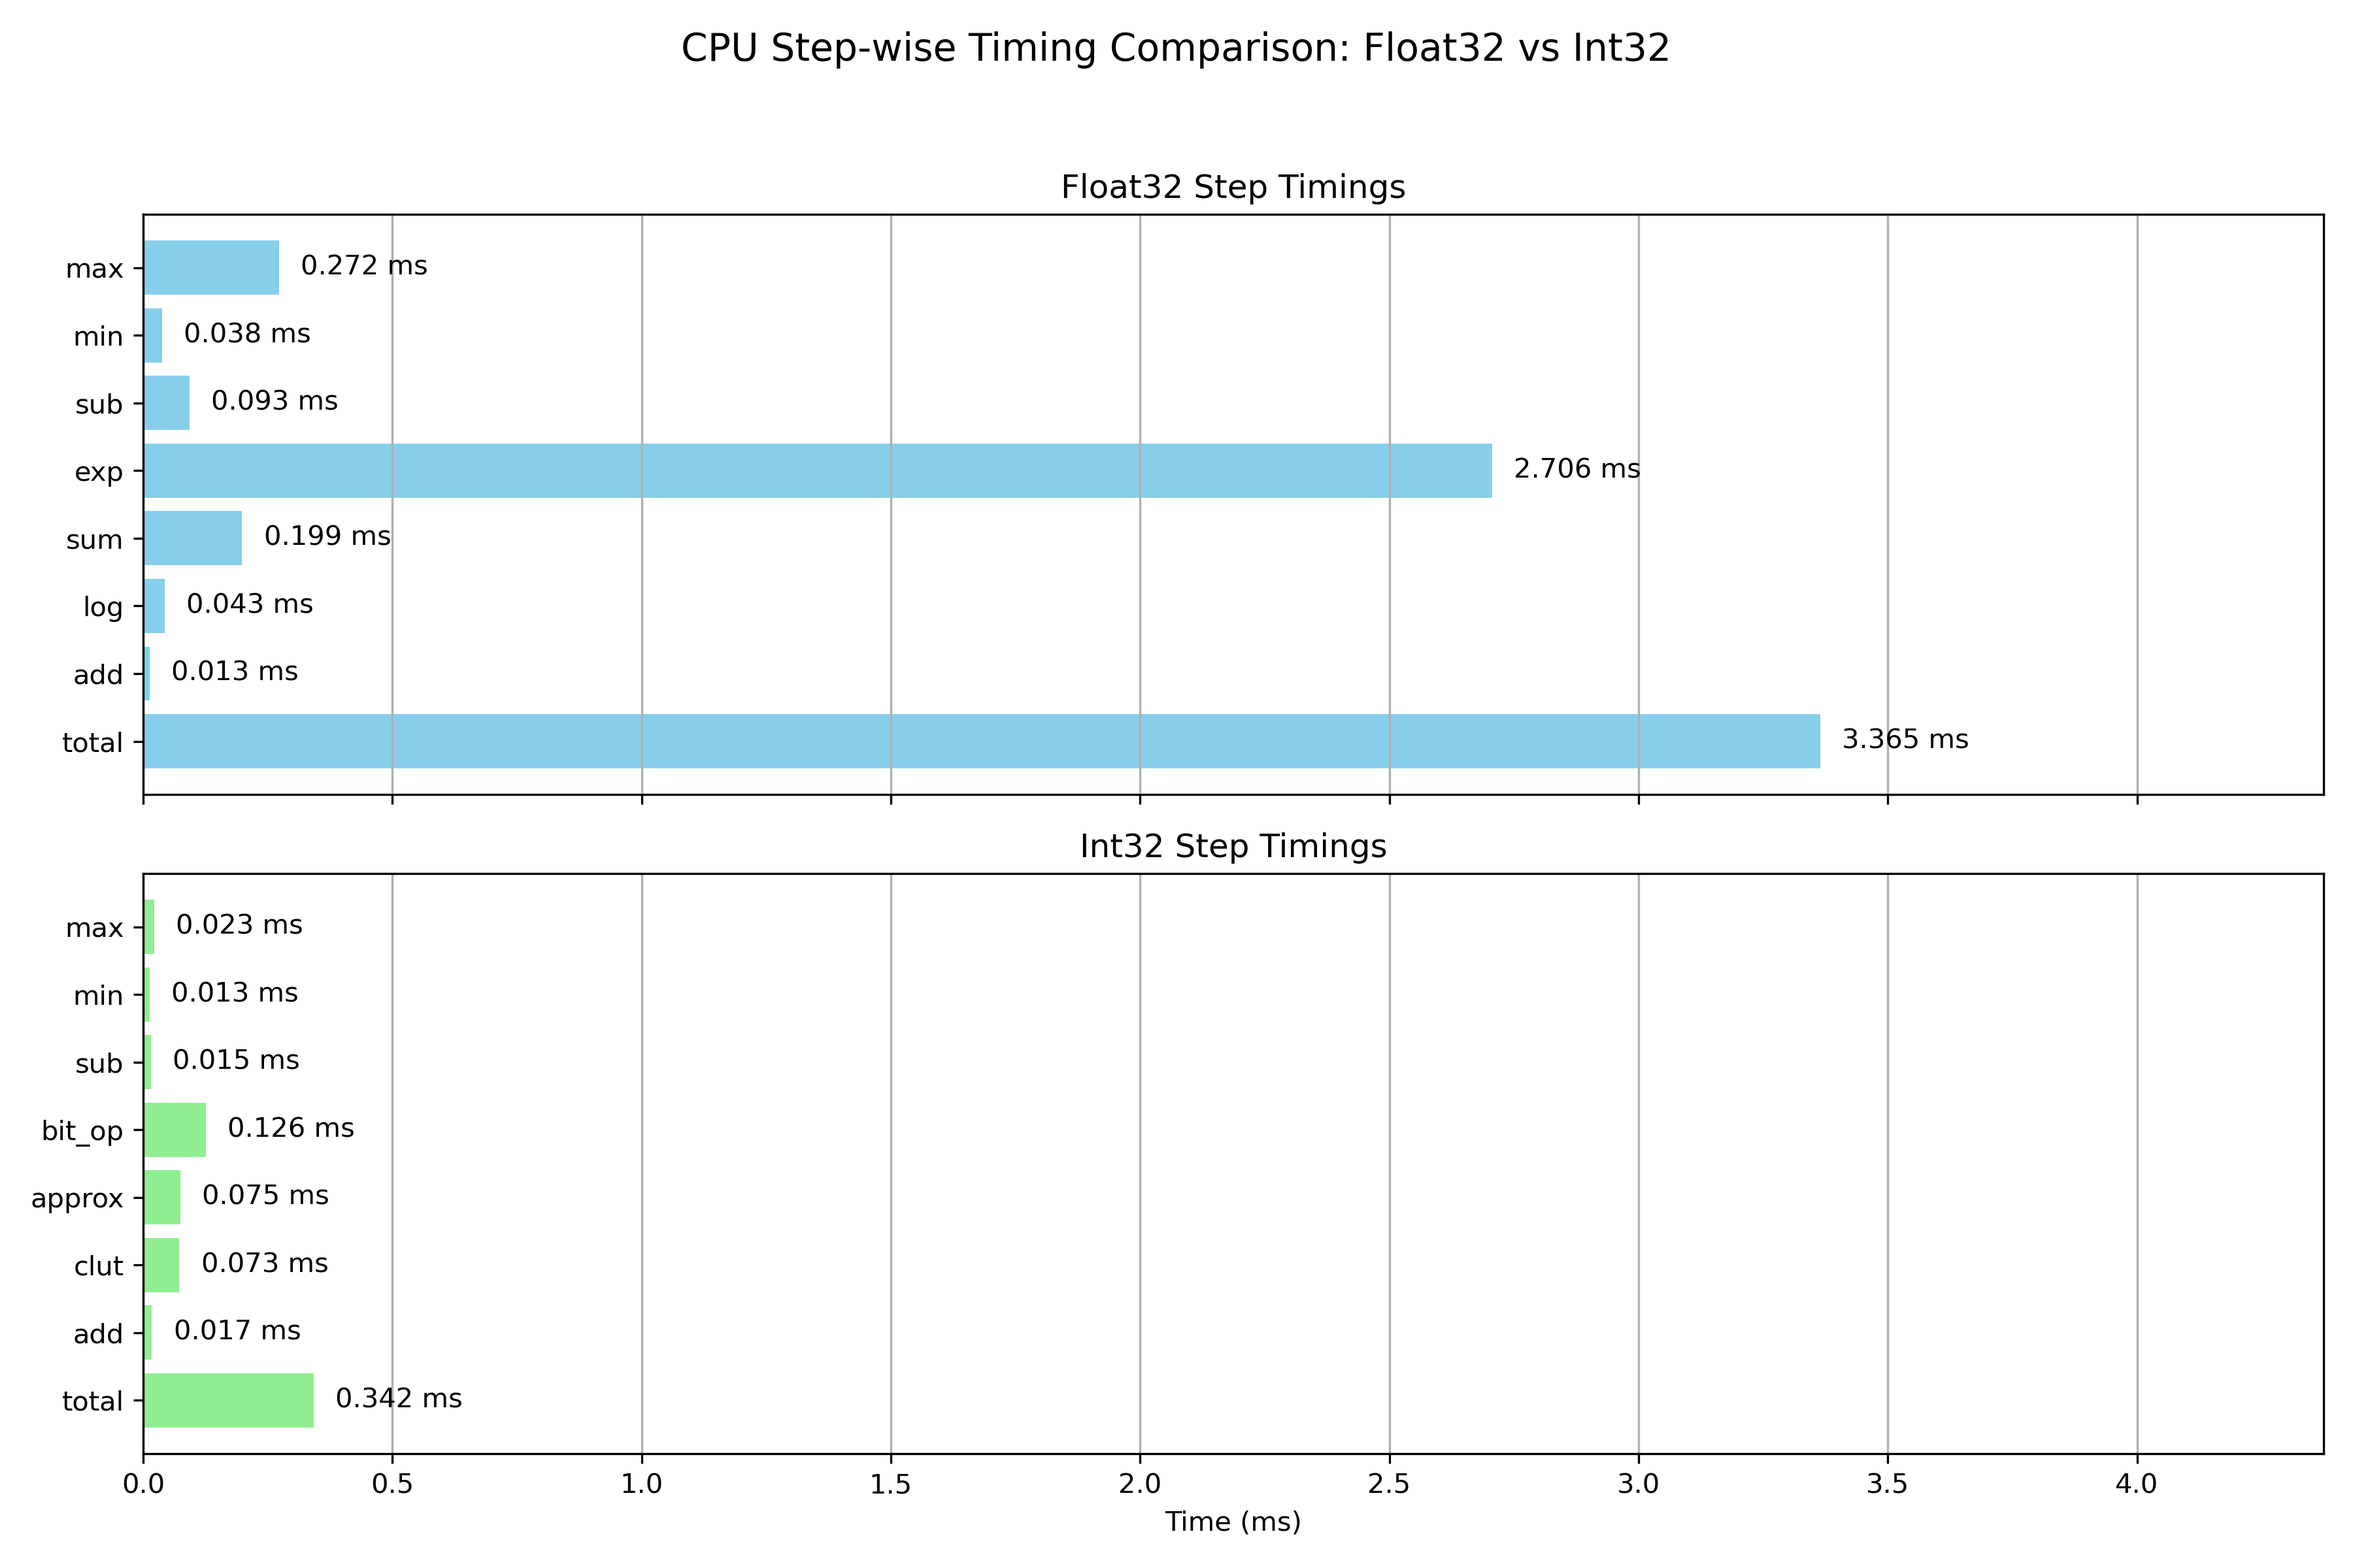
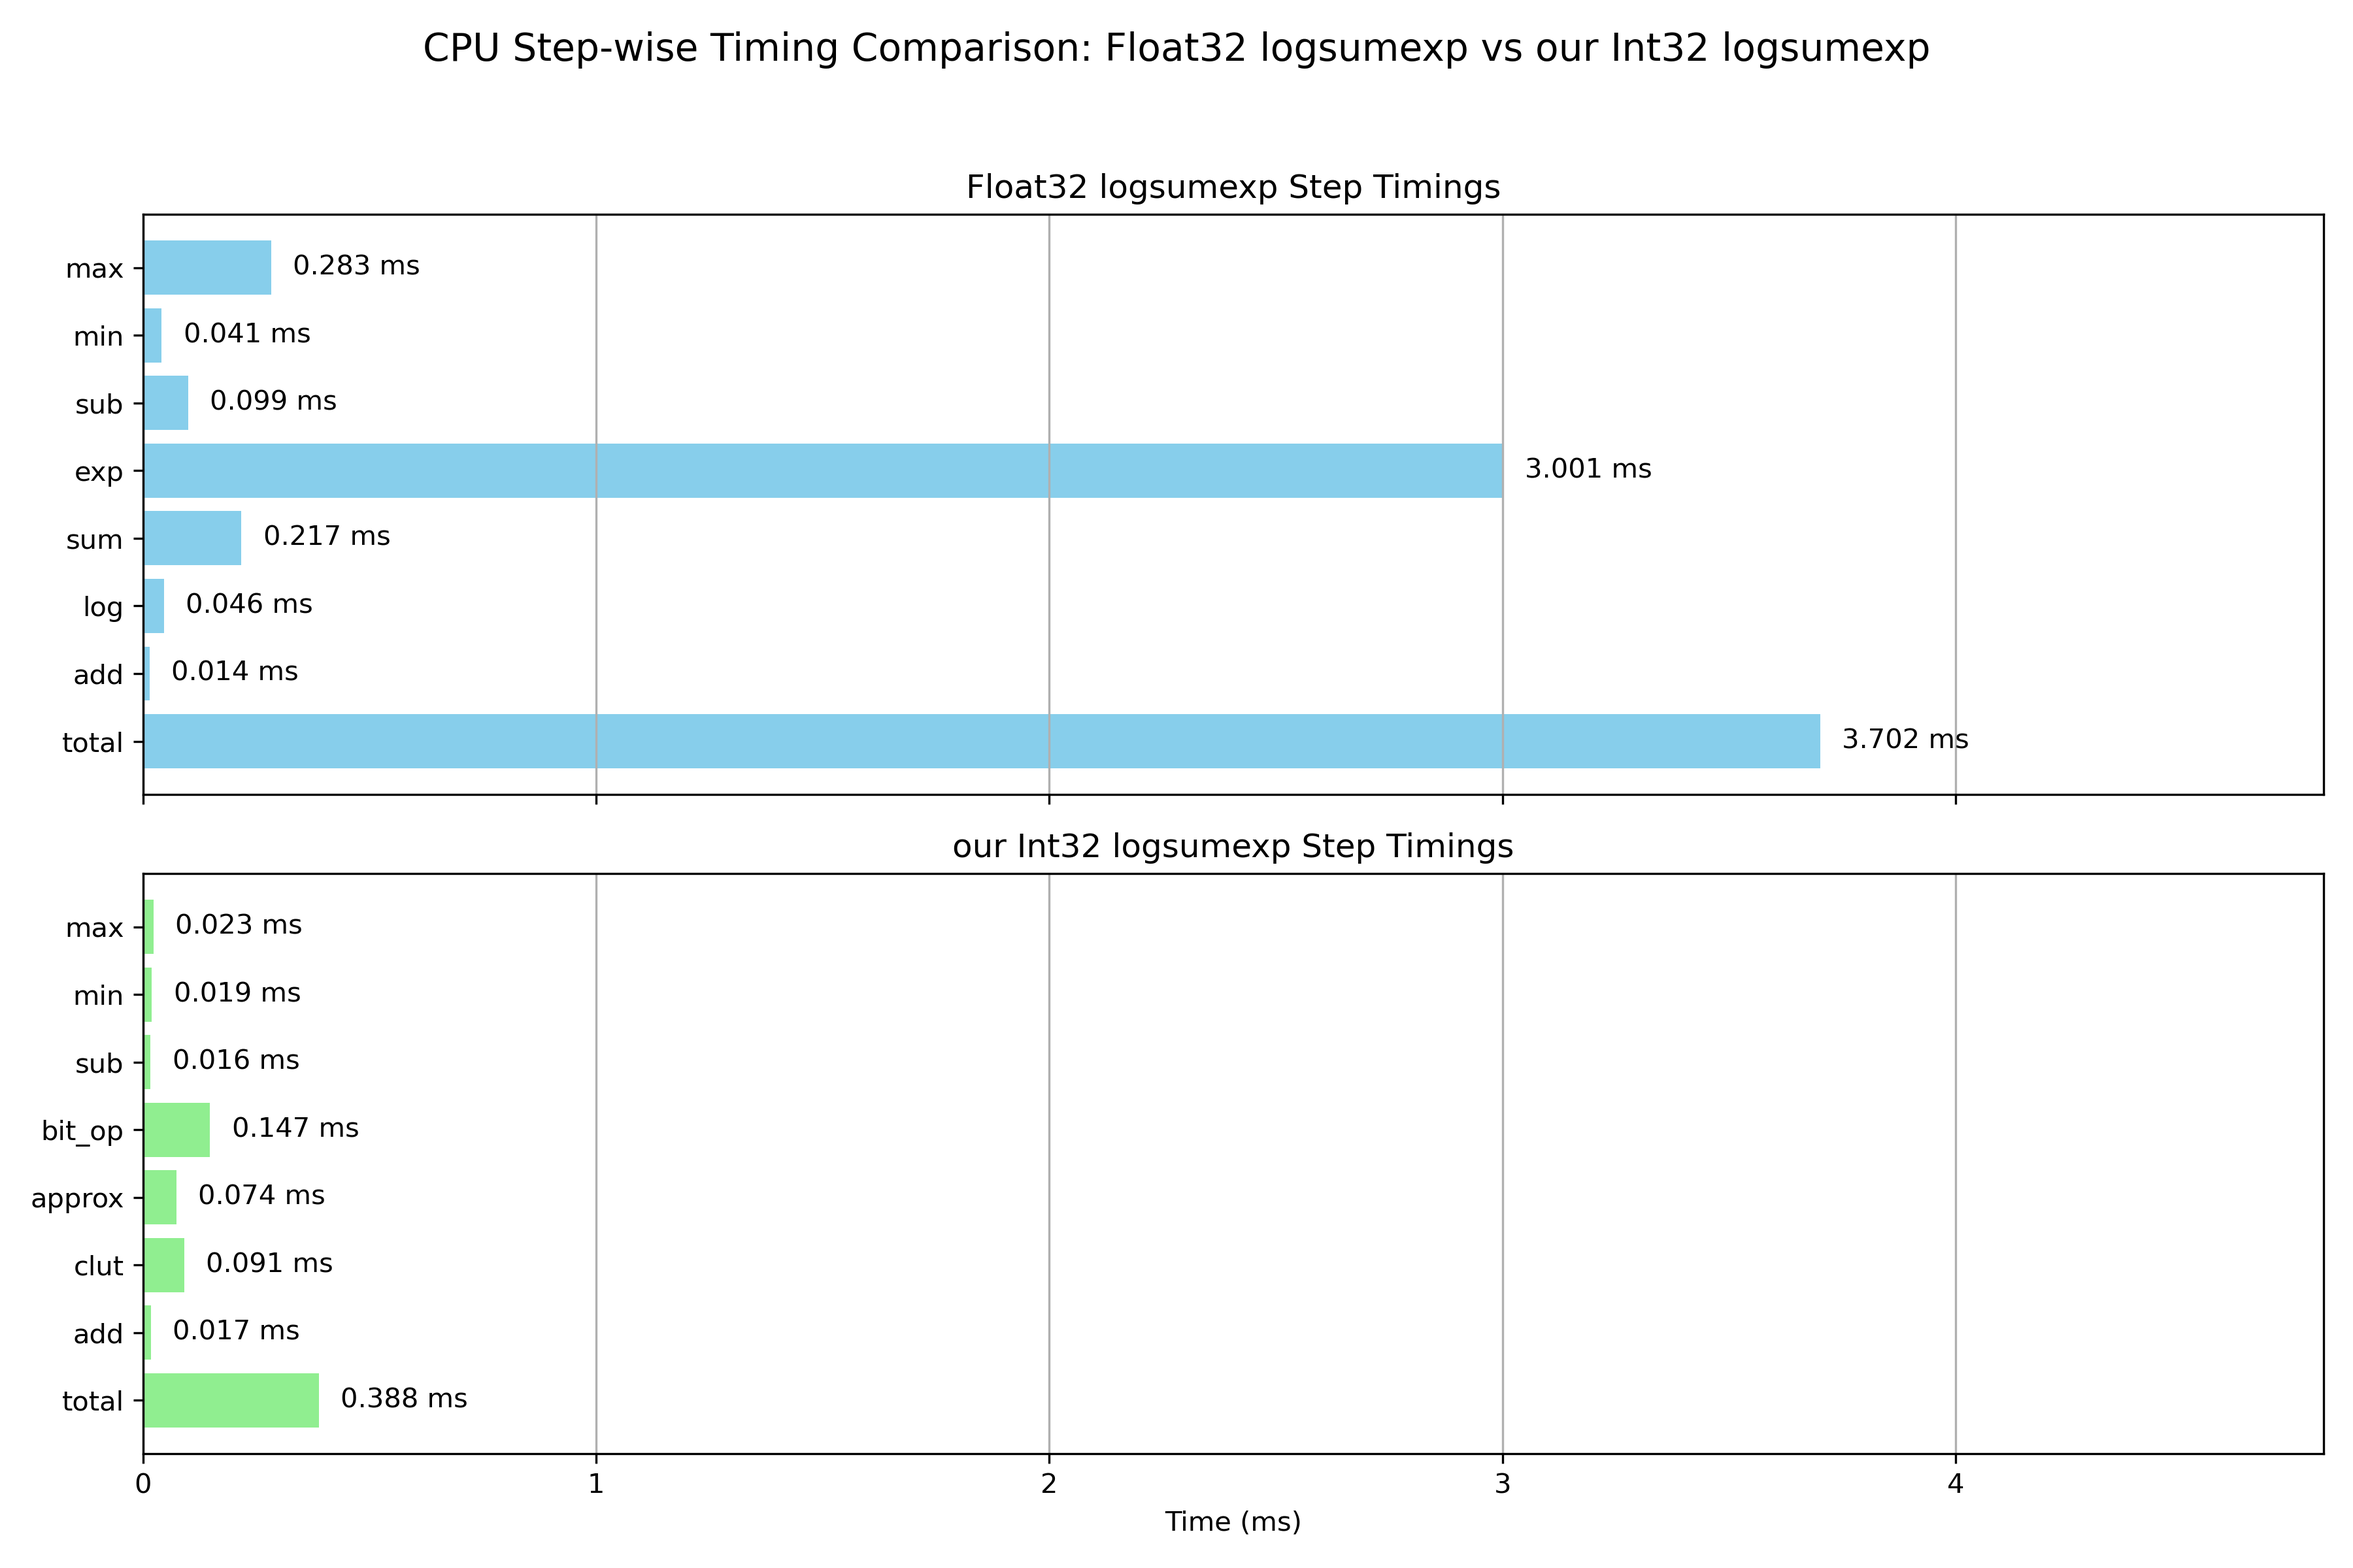
new plots

diff --git a/cpu_time.py b/cpu_time.py
@@ -129,7 +129,7 @@ fig, (ax1, ax2) = plt.subplots(2, 1, figsize=(12, 8), sharex=True)
 
 # Float32 plot
 ax1.barh(y_pos_float, float_aligned, color='skyblue')
-ax1.set_title("Float32 Step Timings")
+ax1.set_title("Float32 logsumexp Step Timings")
 ax1.set_xlim(0, x_max)
 ax1.set_yticks(y_pos_float)
 ax1.set_yticklabels(float_steps)
@@ -140,7 +140,7 @@ for i, v in enumerate(float_aligned):
 
 # Int32 plot
 ax2.barh(y_pos_int, int_aligned, color='lightgreen')
-ax2.set_title("Int32 Step Timings")
+ax2.set_title("our Int32 logsumexp Step Timings")
 ax2.set_xlim(0, x_max)
 ax2.set_yticks(y_pos_int)
 ax2.set_yticklabels(int_steps)
@@ -151,7 +151,7 @@ for i, v in enumerate(int_aligned):
     ax2.text(v + x_max * 0.01, i, f"{v:.3f} ms", va='center')
 
 # Final layout
-plt.suptitle("CPU Step-wise Timing Comparison: Float32 vs Int32", fontsize=14)
+plt.suptitle("CPU Step-wise Timing Comparison: Float32 logsumexp vs our Int32 logsumexp", fontsize=14)
 plt.tight_layout(rect=[0, 0, 1, 0.95])
 plt.savefig('cpu_timings.png', dpi=300)
 

diff --git a/gpu_time.py b/gpu_time.py
@@ -134,7 +134,7 @@ fig, (ax1, ax2) = plt.subplots(2, 1, figsize=(12, 8), sharex=True)
 
 # Float32 plot
 ax1.barh(y_pos_float, float_aligned, color='skyblue')
-ax1.set_title("Float32 Step Timings")
+ax1.set_title("Float32 logsumexpStep Timings")
 ax1.set_xlim(0, x_max)
 ax1.set_yticks(y_pos_float)
 ax1.set_yticklabels(float_steps)
@@ -145,7 +145,7 @@ for i, v in enumerate(float_aligned):
 
 # Int32 plot
 ax2.barh(y_pos_int, int_aligned, color='lightgreen')
-ax2.set_title("Int32 Step Timings")
+ax2.set_title("our Int32 logsumexp Step Timings")
 ax2.set_xlim(0, x_max)
 ax2.set_yticks(y_pos_int)
 ax2.set_yticklabels(int_steps)
@@ -156,6 +156,6 @@ for i, v in enumerate(int_aligned):
     ax2.text(v + x_max * 0.01, i, f"{v:.3f} ms", va='center')
 
 # Final layout
-plt.suptitle("GPU Step-wise Timing Comparison: Float32 vs Int32", fontsize=14)
+plt.suptitle("GPU Step-wise Timing Comparison: Float32 logsumexp vs our Int32 logsumexp", fontsize=14)
 plt.tight_layout(rect=[0, 0, 1, 0.95])
 plt.savefig('gpu_timings.png', dpi=300)
